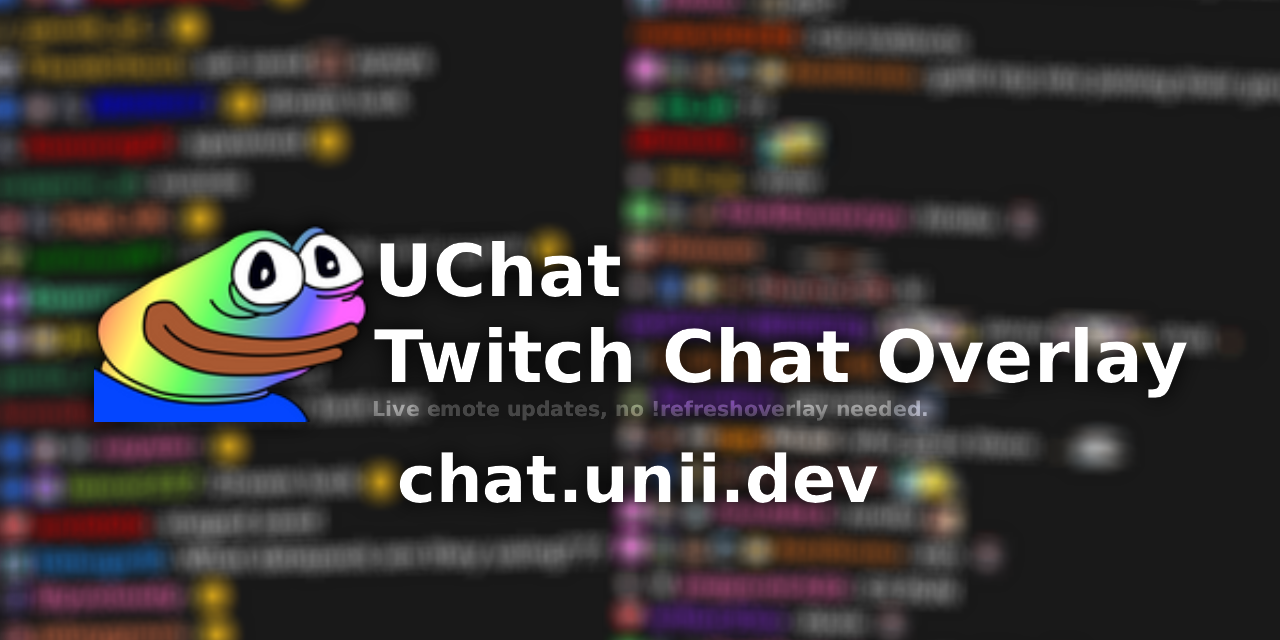
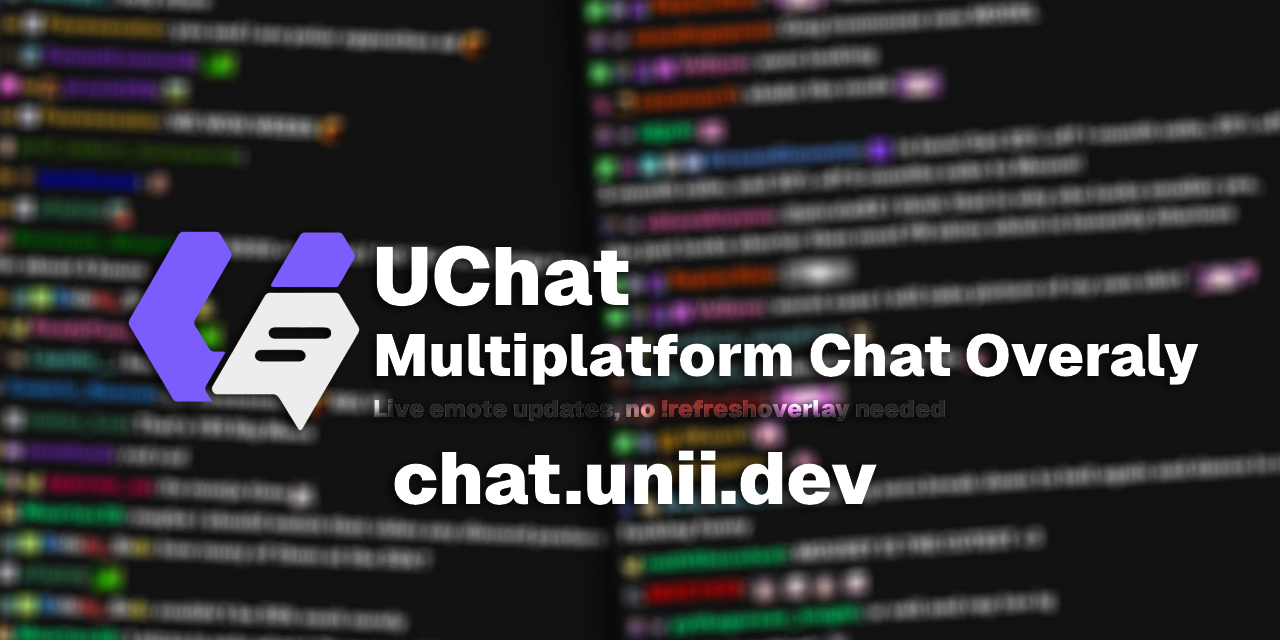
Fix branding

diff --git a/app/src/app.html b/app/src/app.html
@@ -11,29 +11,29 @@
 
         <meta
             name="description"
-            content="UChat is a Twitch & Kick chat overlay with custom settings, saved preferences, and support for 7TV, BTTV, and FFZ. Copy your overlay URL, reset settings, and preview chat instantly. Works with OBS, Streamlabs, and XSplit."
+            content="UChat is a multiplaform chat overlay for Twitch, Kick & YouTube with custom settings, saved preferences, and support for 7TV, BTTV, and FFZ. Copy your overlay URL, reset settings, and preview chat instantly. Works with OBS, Streamlabs, and XSplit."
         />
 
         <meta
             name="keywords"
-            content="UChat, Twitch chat overlay, Kick chat overlay, UChat overlay, Twitch chat overlay tool, Kick chat overlay tool, overlay URL, chat settings, saved preferences, reset settings, invalid URL, channel name, Twitch emotes, 7TV, BetterTTV, BTTV, FrankerFaceZ, FFZ, OBS overlay, Streamlabs overlay, XSplit overlay, live stream chat, Twitch overlay customization, Twitch chat viewer, Twitch chat integration, chat moderation tools, Twitch stream tools, Kick stream tools"
+            content="UChat, Twitch chat overlay, Kick chat overlay, YouTube chat overlay, multiplatform chat overlay, UChat overlay, Twitch chat overlay tool, Kick chat overlay tool, YouTube chat overlay tool, multiplatform chat overlay tool, overlay URL, chat settings, saved preferences, reset settings, invalid URL, channel name, Twitch emotes, 7TV, BetterTTV, BTTV, FrankerFaceZ, FFZ, OBS overlay, Streamlabs overlay, XSplit overlay, live stream chat, Twitch overlay customization, Twitch chat viewer, Twitch chat integration, chat moderation tools, Twitch stream tools, Kick stream tools, YouTube stream tools"
         />
 
         <meta
             property="og:title"
-            content="UChat Twitch & Kick Chat Overlay Setup • uniiDev"
+            content="UChat Twitch, Kick & YouTube Multiplaform Chat Overlay Setup • uniiDev"
         />
         <meta
             name="twitter:title"
-            content="UChat Twitch & Kick Chat Overlay Setup • uniiDev"
+            content="UChat Twitch, Kick & YouTube Multiplaform Chat Overlay Setup • uniiDev"
         />
         <meta
             property="og:description"
-            content="UChat is a Twitch & Kick chat overlay with custom settings, saved preferences, and support for 7TV, BTTV, and FFZ. Copy your overlay URL, reset settings, and preview chat instantly. Works with OBS, Streamlabs, and XSplit."
+            content=""UChat is a multiplaform chat overlay for Twitch, Kick & YouTube with custom settings, saved preferences, and support for 7TV, BTTV, and FFZ. Copy your overlay URL, reset settings, and preview chat instantly. Works with OBS, Streamlabs, and XSplit."
         />
         <meta
             name="twitter:description"
-            content="UChat is a Twitch & Kick chat overlay with custom settings, saved preferences, and support for 7TV, BTTV, and FFZ. Copy your overlay URL, reset settings, and preview chat instantly. Works with OBS, Streamlabs, and XSplit."
+            content=""UChat is a multiplaform chat overlay for Twitch, Kick & YouTube with custom settings, saved preferences, and support for 7TV, BTTV, and FFZ. Copy your overlay URL, reset settings, and preview chat instantly. Works with OBS, Streamlabs, and XSplit."
         />
 
         <meta property="og:url" content="https://chat.unii.dev" />

diff --git a/app/src/components/Main/Sidebar.svelte b/app/src/components/Main/Sidebar.svelte
@@ -240,7 +240,6 @@
         header {
             display: flex;
             align-items: center;
-            justify-content: space-between;
 
             gap: 0.5rem;
 
@@ -251,7 +250,7 @@
             background-color: rgba(0, 0, 0);
 
             h1 {
-                font-size: 0.6em;
+                font-size: 0.4em;
                 margin: 0;
                 padding: 0;
             }

diff --git a/README.md b/README.md
@@ -1,10 +1,10 @@
-# ![UChat Logo](app/static/images/logo.svg) UChat | Custom Twitch & Kick Chat Overlay
+# ![UChat Logo](app/static/images/logo.svg) UChat | Custom Twitch, Kick & YouTube Chat Overlay
 
 [![Crowdin](https://badges.crowdin.net/uchat-app/localized.svg)](https://crowdin.com/project/uchat-app)
 
 Project is currently deployed at: https://chat.unii.dev/
 
-A highly customizable Twitch & Kick chat overlay for OBS and other streaming programs.
+A highly customizable Twitch, Kick & YouTube chat overlay for OBS and other streaming programs.
 
 > [!WARNING]
 > The readme isn't frequently updated, make sure to check the deployment over at https://chat.unii.dev/
@@ -42,6 +42,7 @@ Create a pull request.
 | :--- | :--- |
 | <img src="https://assets.twitch.tv/assets/favicon-32-e29e246c157142c94346.png" width="20" /> **[TwitchTV](https://www.twitch.tv/)** | **Emotes:** Global, Channel, Follow, Sub, Bit<br>**Badges:** Sub Badges, Bit Badges, Global Badges<br>**Moderation:** Delete Messages, Timeouts, Bans, Chat Clears |
 | <img src="https://kick.com/favicon.ico" width="20" /> **[Kick](https://kick.com/)** | **Emotes:** Global, Channel, Sub<br>**Badges:** Sub Badges, Global Badges<br>**Moderation:** Delete Messages, Timeouts, Bans, Chat Clears |
+| <img src="https://www.youtube.com/s/desktop/df3ceec1/img/favicon_32x32.png" width="20" /> **[YouTube](https://www.youtube.com//)** | **Emotes:** Global, Channel, Sub<br>**Badges:** Global Badges<br>**Moderation:** Delete Messages, Timeouts, Bans |
 | <img src="https://7tv.app/favicon.svg" width="20" /> **[7TV](https://7tv.app/)** | **Emotes:** Global, Channel, Personal/Special Sets, Auto Set Updates, Zero-Width<br>**User Customization:** Paints, Badges, Personal/Special Emote Sets |
 | <img src="https://betterttv.com/favicon.png" width="20" /> **[BTTV](https://betterttv.com/)** | **Emotes:** Global, Channel, Auto Set Updates |
 | <img src="https://www.frankerfacez.com/static/images/favicon-32.png" width="20" /> **[FFZ](https://www.frankerfacez.com/)** | **Emotes:** Global, Channel<br>**User Customization:** Global + Channel Badges |

diff --git a/.github/PULL_REQUEST_TEMPLATE.md b/.github/PULL_REQUEST_TEMPLATE.md
@@ -30,3 +30,4 @@ Put an `x` in the boxes that apply. You can also fill them out later after creat
 - [ ] This PR relates to only one platform.
   - [ ] Twitch.
   - [ ] Kick.
+  - [ ] YouTube.
